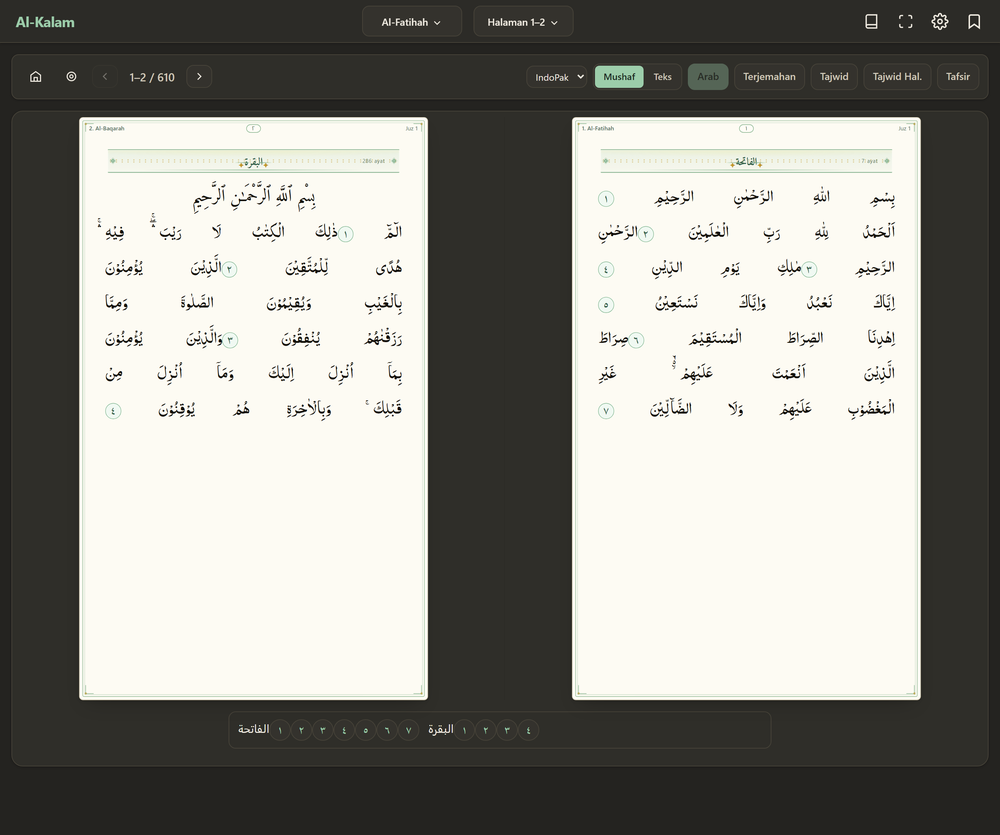
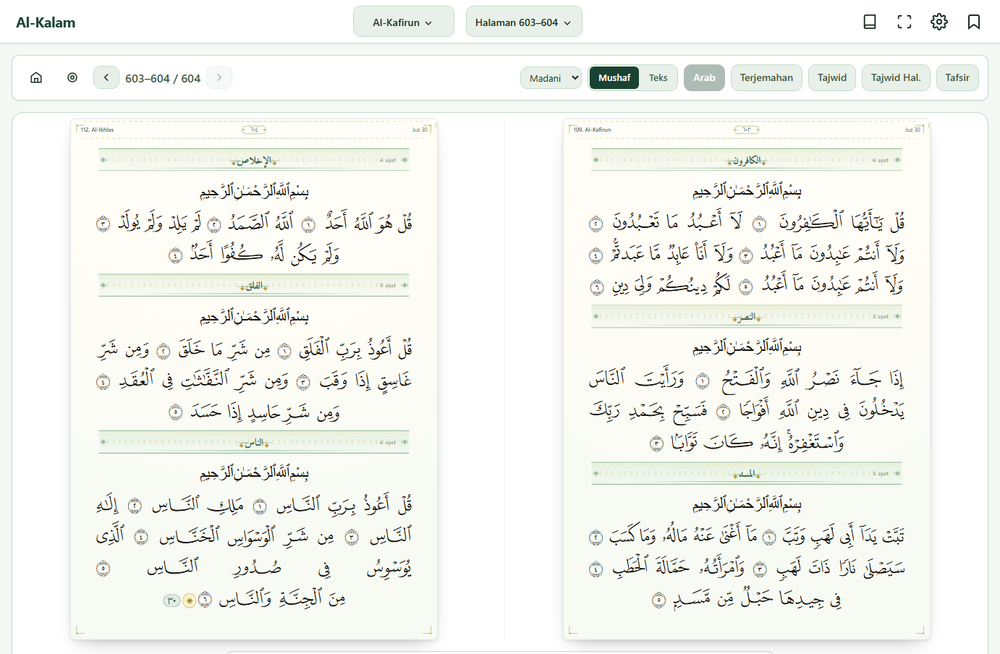
Baris akhir surat dirata-tengah + ornamen halaman tambahan
1) Rata tengah untuk ayat terakhir surat
- Saat menyusun baris, entri terakhir baris diperiksa: bila itu penanda ayat
  terakhir sebuah surat (ayah == verses_count surat), baris diberi kelas
  .mline-surah-end
- CSS: baris itu memakai text-align/text-align-last center dan word-spacing 0,
  sehingga tidak direntangkan; baris lain tetap justify
- Berlaku untuk Madani dan IndoPak (dipakai bersama)
- Verifikasi: halaman 604 Madani -> 6 baris (akhir Al-Ikhlas, Al-Falaq, An-Nas,
  Al-Kafirun, An-Nasr, Al-Masad) semua rata tengah; IndoPak 610 -> 6 baris juga

2) Ornamen halaman
- Kepala halaman: garis titik keemasan di atas dan di bawah, bintang ✦ mengapit
  nomor halaman
- Bingkai: roset emas-hijau di sudut kiri atas & kanan bawah, berlian kecil di
  tengah tepi kiri dan kanan
- Tidak mengubah tata letak baris (semua posisi absolut)

diff --git a/css/style.css b/css/style.css
@@ -1653,3 +1653,82 @@ body.is-fullscreen .app-main { margin-top: 0; }
 .scan-sheet.pal-soft .mw.taj-ikhfa { background: linear-gradient(rgba(251, 207, 232, .6), rgba(251, 207, 232, .6)) center / 100% 58% no-repeat; }
 .scan-sheet.pal-soft .mw.taj-iqlab { background: linear-gradient(rgba(165, 243, 252, .6), rgba(165, 243, 252, .6)) center / 100% 58% no-repeat; }
 .scan-sheet.pal-soft .mw.taj-qalqalah { background: linear-gradient(rgba(254, 202, 202, .6), rgba(254, 202, 202, .6)) center / 100% 58% no-repeat; }
+
+/* ═══ Baris yang berakhir pada ayat terakhir surat: rata tengah ═══ */
+.mline.mline-surah-end {
+  text-align: center;
+  text-align-last: center;
+  word-spacing: 0;
+}
+
+/* ═══ Ornamen halaman tambahan ═══ */
+/* garis ganda berhiaskan berlian di atas & di bawah kepala halaman */
+.page-head::before,
+.page-head::after {
+  content: "";
+  position: absolute;
+  left: 0;
+  right: 0;
+  height: 1px;
+  background:
+    radial-gradient(circle, rgba(184, 134, 11, .75) 1.4px, transparent 1.9px) center / 11px 1px repeat-x,
+    linear-gradient(90deg, transparent, rgba(112, 165, 125, .55), transparent);
+  opacity: .75;
+}
+.page-head::before { top: calc(var(--msize, 32px) * -0.22); }
+.page-head::after  { bottom: calc(var(--msize, 32px) * -0.22); }
+
+/* medali kecil di tengah kepala halaman */
+.page-head .ph-page {
+  position: relative;
+  padding-inline: calc(var(--msize, 32px) * 0.5);
+}
+.page-head .ph-page::before,
+.page-head .ph-page::after {
+  content: "\2726";
+  position: absolute;
+  top: 50%;
+  transform: translateY(-50%);
+  font-size: .7em;
+  color: rgba(184, 134, 11, .8);
+}
+.page-head .ph-page::before { left: 0; }
+.page-head .ph-page::after  { right: 0; }
+
+/* roset di dalam keempat sudut bingkai */
+.scan-sheet.pb-simple .page-border.simple::before,
+.scan-sheet.pb-simple .page-border.simple::after {
+  content: "";
+  position: absolute;
+  width: calc(var(--msize, 32px) * 0.42);
+  height: calc(var(--msize, 32px) * 0.42);
+  border-radius: 50%;
+  border: 1px solid rgba(184, 134, 11, .5);
+  box-shadow:
+    inset 0 0 0 2px rgba(255, 255, 255, .55),
+    inset 0 0 0 3px rgba(112, 165, 125, .35);
+  background: radial-gradient(circle, rgba(250, 204, 21, .35), transparent 65%);
+  pointer-events: none;
+}
+.scan-sheet.pb-simple .page-border.simple::before {
+  top: calc(var(--bw) * -1 - var(--msize, 32px) * 0.18);
+  left: calc(var(--bw) * -1 - var(--msize, 32px) * 0.18);
+}
+.scan-sheet.pb-simple .page-border.simple::after {
+  bottom: calc(var(--bw) * -1 - var(--msize, 32px) * 0.18);
+  right: calc(var(--bw) * -1 - var(--msize, 32px) * 0.18);
+}
+
+/* berlian kecil di tengah tepi kiri & kanan bingkai */
+.page-border.simple .pb-edge.v.left::after,
+.page-border.simple .pb-edge.v.right::after {
+  content: "";
+  position: absolute;
+  top: 50%;
+  width: calc(var(--msize, 32px) * 0.16);
+  height: calc(var(--msize, 32px) * 0.16);
+  background: rgba(184, 134, 11, .5);
+  transform: translateY(-50%) rotate(45deg);
+}
+.page-border.simple .pb-edge.v.left::after { left: calc(var(--msize, 32px) * -0.08); }
+.page-border.simple .pb-edge.v.right::after { right: calc(var(--msize, 32px) * -0.08); }

diff --git a/js/app.js b/js/app.js
@@ -162,7 +162,7 @@
   }
   
   // ── Versi build (tanda bahwa browser memakai bundel terbaru) ────────
-  const BUILD = '2026-11-23-palet-lembut';
+  const BUILD = '2026-11-23-surah-end';
 
   function showBuildTag() {
     const el = document.getElementById('buildTag');
@@ -1426,7 +1426,17 @@
           htm += `<div class="mline mline-basmalah"><span class="mbasmalah">بِسْمِ ٱللَّهِ ٱلرَّحْمَـٰنِ ٱلرَّحِيمِ</span></div>`;
         } else if (row.kind === 'words') {
           const short = (row.words || []).length < 3 ? ' mline-short' : '';
-          htm += `<div class="mline${short}">`;
+          // baris yang berakhir tepat pada ayat terakhir sebuah surat dirata-tengah
+          let endSurah = '';
+          const list = row.words || [];
+          const lastWord = list[list.length - 1];
+          if (lastWord && lastWord[3]) {
+            const [lvk] = lastWord;
+            const [ls, la] = String(lvk).split(':').map(Number);
+            const ch = chapters.find(c => c.id === ls);
+            if (ch && la === ch.verses_count) endSurah = ' mline-surah-end';
+          }
+          htm += `<div class="mline${short}${endSurah}">`;
           for (const [vk, pos, glyph, isEnd] of row.words) {
             if (mushafKey() === 'indopak') {
               // IndoPak: buang glyph PUA (waqf/penanda QCF) yang tak ada di font nastaleeq

diff --git a/sw.js b/sw.js
@@ -2,9 +2,9 @@
  * Al-Kalam Digital — Service Worker
  * Offline-first untuk halaman mushaf & data JSON
  */
-const CACHE_NAME = 'alkalam-v43';
+const CACHE_NAME = 'alkalam-v44';
 const DATA_CACHE = 'alkalam-data-v3';
-const PAGE_CACHE = 'alkalam-pages-v43';
+const PAGE_CACHE = 'alkalam-pages-v44';
 const IMG_CACHE = 'alkalam-page-images-v2';
 
 // File yang di-cache saat install (app shell)
